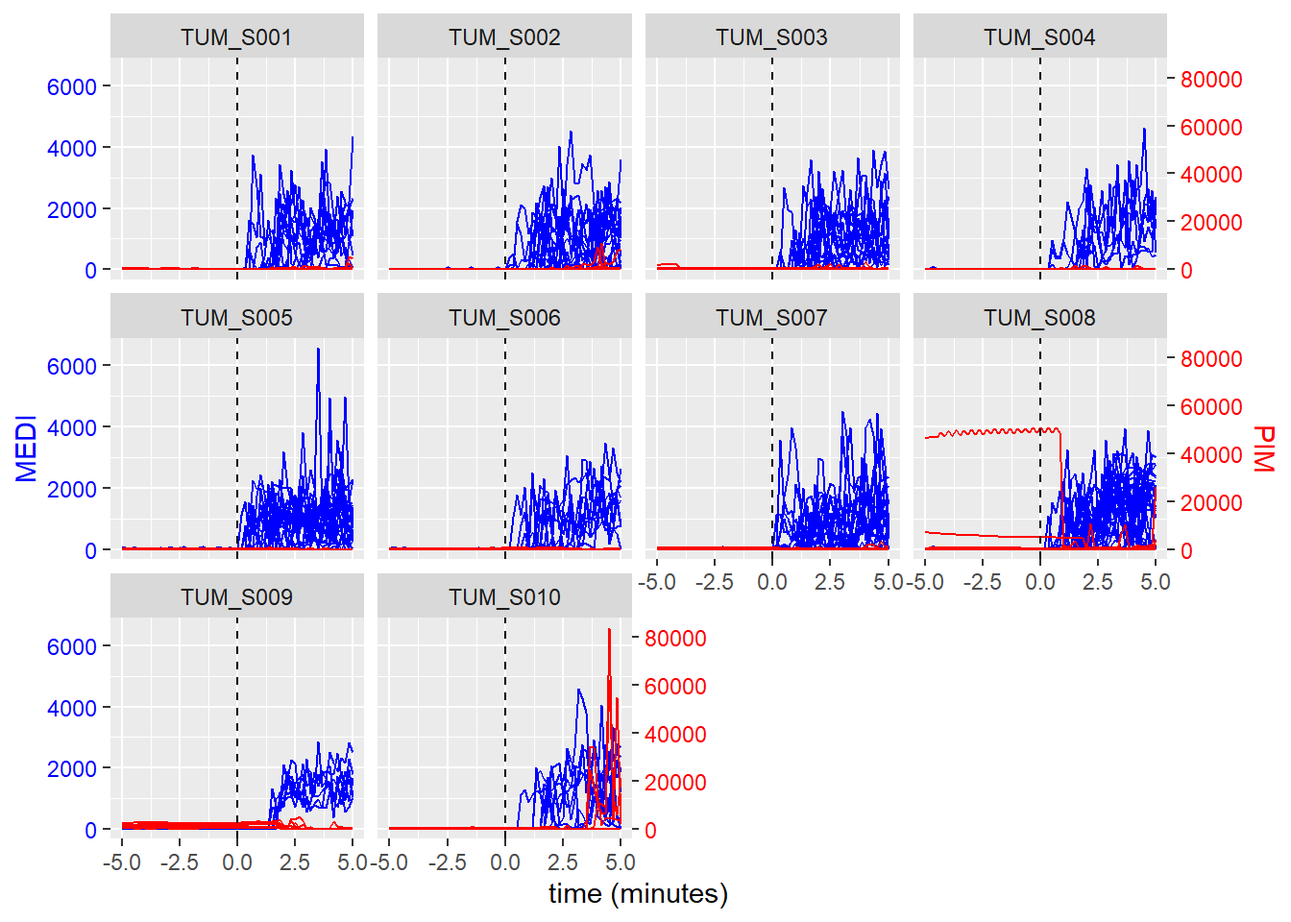
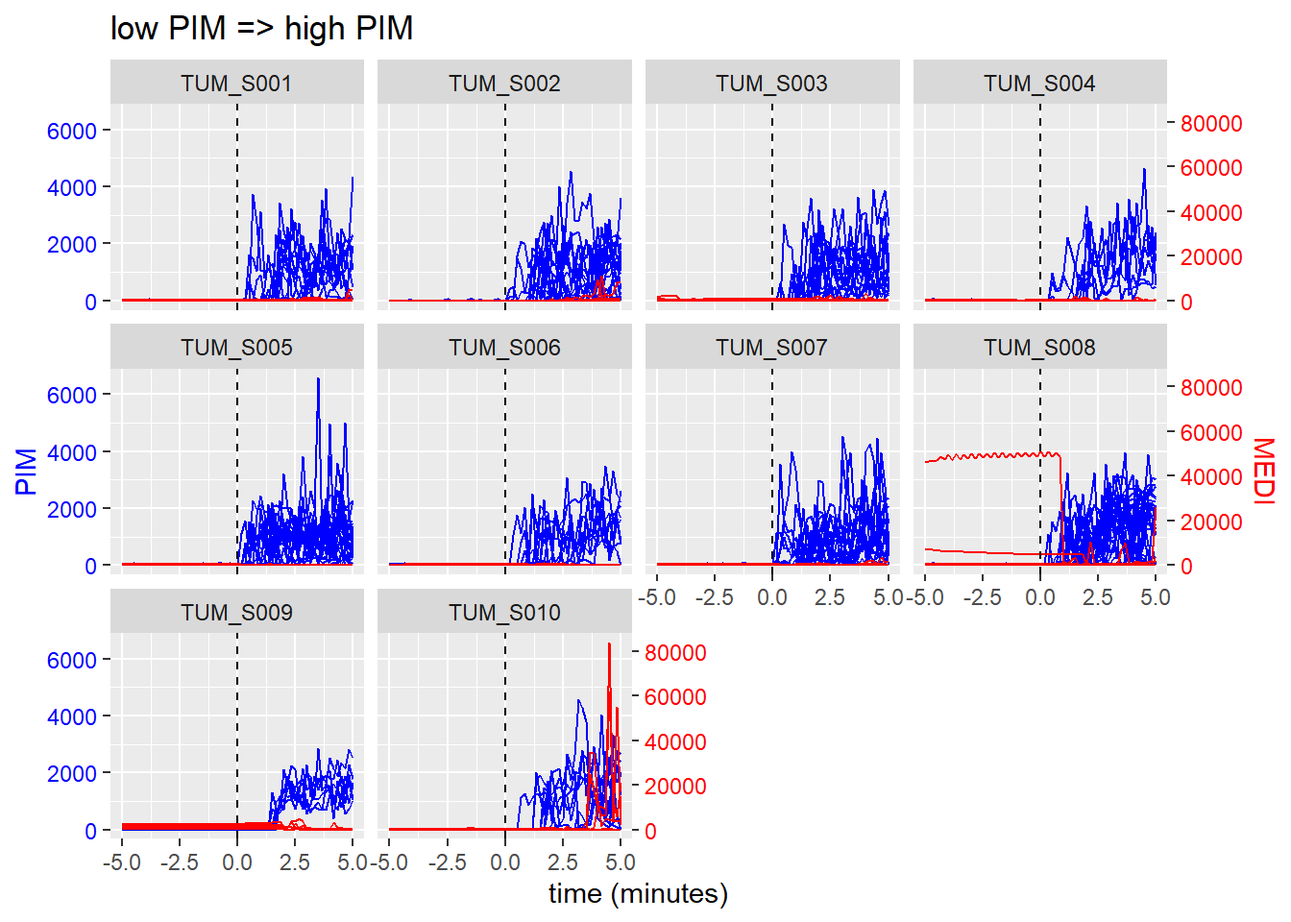
edits to reflections and adding titles to plots

diff --git a/exploration2b.html b/exploration2b.html
@@ -238,7 +238,7 @@ $ PIM      &lt;dbl&gt; 0, 87, 995, 0, 118, 1312, 0, 100, 323, 285, 400, 623, 614
 <span id="cb14-2"><a href="#cb14-2" aria-hidden="true" tabindex="-1"></a><span class="fu">ggplot</span>(D24, <span class="fu">aes</span>(<span class="at">x=</span>hour_in_day)) <span class="sc">+</span></span>
 <span id="cb14-3"><a href="#cb14-3" aria-hidden="true" tabindex="-1"></a>  <span class="fu">geom_line</span>(<span class="fu">aes</span>(<span class="at">y=</span>PIM), <span class="at">col=</span><span class="st">"blue"</span>) <span class="sc">+</span></span>
 <span id="cb14-4"><a href="#cb14-4" aria-hidden="true" tabindex="-1"></a>  <span class="fu">geom_line</span>(<span class="fu">aes</span>(<span class="at">y=</span>MEDI <span class="sc">*</span> scaleFactor), <span class="at">col=</span><span class="st">"red"</span>) <span class="sc">+</span></span>
-<span id="cb14-5"><a href="#cb14-5" aria-hidden="true" tabindex="-1"></a>  <span class="fu">scale_y_continuous</span>(<span class="at">name=</span><span class="st">"MEDI"</span>, <span class="at">sec.axis=</span><span class="fu">sec_axis</span>(<span class="sc">~</span>.<span class="sc">/</span>scaleFactor, <span class="at">name=</span><span class="st">"PIM"</span>)) <span class="sc">+</span></span>
+<span id="cb14-5"><a href="#cb14-5" aria-hidden="true" tabindex="-1"></a>  <span class="fu">scale_y_continuous</span>(<span class="at">name=</span><span class="st">"PIM"</span>, <span class="at">sec.axis=</span><span class="fu">sec_axis</span>(<span class="sc">~</span>.<span class="sc">/</span>scaleFactor, <span class="at">name=</span><span class="st">"MEDI"</span>)) <span class="sc">+</span></span>
 <span id="cb14-6"><a href="#cb14-6" aria-hidden="true" tabindex="-1"></a>  <span class="fu">theme</span>(</span>
 <span id="cb14-7"><a href="#cb14-7" aria-hidden="true" tabindex="-1"></a>    <span class="at">axis.title.y.left=</span><span class="fu">element_text</span>(<span class="at">color=</span><span class="st">"blue"</span>),</span>
 <span id="cb14-8"><a href="#cb14-8" aria-hidden="true" tabindex="-1"></a>    <span class="at">axis.text.y.left=</span><span class="fu">element_text</span>(<span class="at">color=</span><span class="st">"blue"</span>),</span>
@@ -261,7 +261,7 @@ $ PIM      &lt;dbl&gt; 0, 87, 995, 0, 118, 1312, 0, 100, 323, 285, 400, 623, 614
 <span id="cb15-2"><a href="#cb15-2" aria-hidden="true" tabindex="-1"></a><span class="fu">ggplot</span>(D24, <span class="fu">aes</span>(<span class="at">x=</span>hour_in_day)) <span class="sc">+</span></span>
 <span id="cb15-3"><a href="#cb15-3" aria-hidden="true" tabindex="-1"></a>  <span class="fu">geom_smooth</span>(<span class="fu">aes</span>(<span class="at">y=</span>PIM), <span class="at">method=</span><span class="st">"gam"</span>, <span class="at">col=</span><span class="st">"blue"</span>) <span class="sc">+</span></span>
 <span id="cb15-4"><a href="#cb15-4" aria-hidden="true" tabindex="-1"></a>  <span class="fu">geom_smooth</span>(<span class="fu">aes</span>(<span class="at">y=</span>MEDI <span class="sc">*</span> scaleFactor), <span class="at">method=</span><span class="st">"gam"</span>, <span class="at">col=</span><span class="st">"red"</span>) <span class="sc">+</span></span>
-<span id="cb15-5"><a href="#cb15-5" aria-hidden="true" tabindex="-1"></a>  <span class="fu">scale_y_continuous</span>(<span class="at">name=</span><span class="st">"MEDI"</span>, <span class="at">sec.axis=</span><span class="fu">sec_axis</span>(<span class="sc">~</span>.<span class="sc">/</span>scaleFactor, <span class="at">name=</span><span class="st">"PIM"</span>)) <span class="sc">+</span></span>
+<span id="cb15-5"><a href="#cb15-5" aria-hidden="true" tabindex="-1"></a>  <span class="fu">scale_y_continuous</span>(<span class="at">name=</span><span class="st">"PIM"</span>, <span class="at">sec.axis=</span><span class="fu">sec_axis</span>(<span class="sc">~</span>.<span class="sc">/</span>scaleFactor, <span class="at">name=</span><span class="st">"MEDI"</span>)) <span class="sc">+</span></span>
 <span id="cb15-6"><a href="#cb15-6" aria-hidden="true" tabindex="-1"></a>  <span class="fu">theme</span>(</span>
 <span id="cb15-7"><a href="#cb15-7" aria-hidden="true" tabindex="-1"></a>    <span class="at">axis.title.y.left=</span><span class="fu">element_text</span>(<span class="at">color=</span><span class="st">"blue"</span>),</span>
 <span id="cb15-8"><a href="#cb15-8" aria-hidden="true" tabindex="-1"></a>    <span class="at">axis.text.y.left=</span><span class="fu">element_text</span>(<span class="at">color=</span><span class="st">"blue"</span>),</span>
@@ -409,12 +409,12 @@ $ PIM      &lt;dbl&gt; 0, 87, 995, 0, 118, 1312, 0, 100, 323, 285, 400, 623, 614
 <section id="plot" class="level3">
 <h3 class="anchored" data-anchor-id="plot">Plot</h3>
 <div class="cell">
-<div class="code-copy-outer-scaffold"><div class="sourceCode cell-code" id="cb21"><pre class="sourceCode r code-with-copy"><code class="sourceCode r"><span id="cb21-1"><a href="#cb21-1" aria-hidden="true" tabindex="-1"></a>plot_changepoint_ts <span class="ot">=</span> <span class="cf">function</span>(output) {</span>
+<div class="code-copy-outer-scaffold"><div class="sourceCode cell-code" id="cb21"><pre class="sourceCode r code-with-copy"><code class="sourceCode r"><span id="cb21-1"><a href="#cb21-1" aria-hidden="true" tabindex="-1"></a>plot_changepoint_ts <span class="ot">=</span> <span class="cf">function</span>(output, <span class="at">title =</span> <span class="st">""</span>) {</span>
 <span id="cb21-2"><a href="#cb21-2" aria-hidden="true" tabindex="-1"></a>  scaleFactor <span class="ot">&lt;-</span> <span class="fu">max</span>(output<span class="sc">$</span>PIM) <span class="sc">/</span> <span class="fu">max</span>(output<span class="sc">$</span>MEDI)</span>
 <span id="cb21-3"><a href="#cb21-3" aria-hidden="true" tabindex="-1"></a>  <span class="fu">ggplot</span>(output, <span class="fu">aes</span>(<span class="at">x =</span> time, <span class="at">group =</span> changepoint)) <span class="sc">+</span></span>
 <span id="cb21-4"><a href="#cb21-4" aria-hidden="true" tabindex="-1"></a>    <span class="fu">geom_line</span>(<span class="fu">aes</span>(<span class="at">y =</span> PIM), <span class="at">col =</span> <span class="st">"blue"</span>) <span class="sc">+</span></span>
 <span id="cb21-5"><a href="#cb21-5" aria-hidden="true" tabindex="-1"></a>    <span class="fu">geom_line</span>(<span class="fu">aes</span>(<span class="at">y =</span> MEDI <span class="sc">*</span> scaleFactor), <span class="at">col =</span> <span class="st">"red"</span>) <span class="sc">+</span></span>
-<span id="cb21-6"><a href="#cb21-6" aria-hidden="true" tabindex="-1"></a>    <span class="fu">scale_y_continuous</span>(<span class="at">name =</span> <span class="st">"MEDI"</span>, <span class="at">sec.axis =</span> <span class="fu">sec_axis</span>(<span class="sc">~</span>.<span class="sc">/</span>scaleFactor, <span class="at">name =</span> <span class="st">"PIM"</span>)) <span class="sc">+</span></span>
+<span id="cb21-6"><a href="#cb21-6" aria-hidden="true" tabindex="-1"></a>    <span class="fu">scale_y_continuous</span>(<span class="at">name =</span> <span class="st">"PIM"</span>, <span class="at">sec.axis =</span> <span class="fu">sec_axis</span>(<span class="sc">~</span>.<span class="sc">/</span>scaleFactor, <span class="at">name =</span> <span class="st">"MEDI"</span>)) <span class="sc">+</span></span>
 <span id="cb21-7"><a href="#cb21-7" aria-hidden="true" tabindex="-1"></a>    <span class="fu">theme</span>(</span>
 <span id="cb21-8"><a href="#cb21-8" aria-hidden="true" tabindex="-1"></a>      <span class="at">axis.title.y.left =</span> <span class="fu">element_text</span>(<span class="at">color =</span> <span class="st">"blue"</span>),</span>
 <span id="cb21-9"><a href="#cb21-9" aria-hidden="true" tabindex="-1"></a>      <span class="at">axis.text.y.left =</span> <span class="fu">element_text</span>(<span class="at">color =</span> <span class="st">"blue"</span>),</span>
@@ -423,9 +423,10 @@ $ PIM      &lt;dbl&gt; 0, 87, 995, 0, 118, 1312, 0, 100, 323, 285, 400, 623, 614
 <span id="cb21-12"><a href="#cb21-12" aria-hidden="true" tabindex="-1"></a>    ) <span class="sc">+</span></span>
 <span id="cb21-13"><a href="#cb21-13" aria-hidden="true" tabindex="-1"></a>    <span class="fu">geom_vline</span>(<span class="at">xintercept =</span> <span class="dv">0</span>, <span class="at">linetype =</span> <span class="st">"dashed"</span>) <span class="sc">+</span></span>
 <span id="cb21-14"><a href="#cb21-14" aria-hidden="true" tabindex="-1"></a>    <span class="fu">labs</span>(<span class="at">x =</span> <span class="st">"time (minutes)"</span>) <span class="sc">+</span> </span>
-<span id="cb21-15"><a href="#cb21-15" aria-hidden="true" tabindex="-1"></a>    <span class="fu">facet_wrap</span>(<span class="sc">~</span>Id)</span>
-<span id="cb21-16"><a href="#cb21-16" aria-hidden="true" tabindex="-1"></a>}</span>
-<span id="cb21-17"><a href="#cb21-17" aria-hidden="true" tabindex="-1"></a><span class="fu">plot_changepoint_ts</span>(output)</span></code></pre></div><button title="Copy to Clipboard" class="code-copy-button"><i class="bi"></i></button></div>
+<span id="cb21-15"><a href="#cb21-15" aria-hidden="true" tabindex="-1"></a>    <span class="fu">facet_wrap</span>(<span class="sc">~</span>Id) <span class="sc">+</span> <span class="fu">ggtitle</span>(title)</span>
+<span id="cb21-16"><a href="#cb21-16" aria-hidden="true" tabindex="-1"></a>  </span>
+<span id="cb21-17"><a href="#cb21-17" aria-hidden="true" tabindex="-1"></a>}</span>
+<span id="cb21-18"><a href="#cb21-18" aria-hidden="true" tabindex="-1"></a><span class="fu">plot_changepoint_ts</span>(output, <span class="st">"low PIM =&gt; high PIM"</span>)</span></code></pre></div><button title="Copy to Clipboard" class="code-copy-button"><i class="bi"></i></button></div>
 <div class="cell-output-display">
 <div>
 <figure class="figure">
@@ -498,7 +499,7 @@ $ PIM      &lt;dbl&gt; 0, 87, 995, 0, 118, 1312, 0, 100, 323, 285, 400, 623, 614
 <section id="plot-1" class="level3">
 <h3 class="anchored" data-anchor-id="plot-1">Plot</h3>
 <div class="cell">
-<div class="code-copy-outer-scaffold"><div class="sourceCode cell-code" id="cb25"><pre class="sourceCode r code-with-copy"><code class="sourceCode r"><span id="cb25-1"><a href="#cb25-1" aria-hidden="true" tabindex="-1"></a><span class="fu">plot_changepoint_ts</span>(output)</span></code></pre></div><button title="Copy to Clipboard" class="code-copy-button"><i class="bi"></i></button></div>
+<div class="code-copy-outer-scaffold"><div class="sourceCode cell-code" id="cb25"><pre class="sourceCode r code-with-copy"><code class="sourceCode r"><span id="cb25-1"><a href="#cb25-1" aria-hidden="true" tabindex="-1"></a><span class="fu">plot_changepoint_ts</span>(output, <span class="st">"high PIM =&gt; low PIM"</span>)</span></code></pre></div><button title="Copy to Clipboard" class="code-copy-button"><i class="bi"></i></button></div>
 <div class="cell-output-display">
 <div>
 <figure class="figure">
@@ -571,7 +572,7 @@ $ PIM      &lt;dbl&gt; 0, 87, 995, 0, 118, 1312, 0, 100, 323, 285, 400, 623, 614
 <section id="plot-2" class="level3">
 <h3 class="anchored" data-anchor-id="plot-2">Plot</h3>
 <div class="cell">
-<div class="code-copy-outer-scaffold"><div class="sourceCode cell-code" id="cb29"><pre class="sourceCode r code-with-copy"><code class="sourceCode r"><span id="cb29-1"><a href="#cb29-1" aria-hidden="true" tabindex="-1"></a><span class="fu">plot_changepoint_ts</span>(output)</span></code></pre></div><button title="Copy to Clipboard" class="code-copy-button"><i class="bi"></i></button></div>
+<div class="code-copy-outer-scaffold"><div class="sourceCode cell-code" id="cb29"><pre class="sourceCode r code-with-copy"><code class="sourceCode r"><span id="cb29-1"><a href="#cb29-1" aria-hidden="true" tabindex="-1"></a><span class="fu">plot_changepoint_ts</span>(output, <span class="st">"low MEDI =&gt; high MEDI"</span>)</span></code></pre></div><button title="Copy to Clipboard" class="code-copy-button"><i class="bi"></i></button></div>
 <div class="cell-output-display">
 <div>
 <figure class="figure">
@@ -643,7 +644,7 @@ $ PIM      &lt;dbl&gt; 0, 87, 995, 0, 118, 1312, 0, 100, 323, 285, 400, 623, 614
 <section id="plot-3" class="level3">
 <h3 class="anchored" data-anchor-id="plot-3">Plot</h3>
 <div class="cell">
-<div class="code-copy-outer-scaffold"><div class="sourceCode cell-code" id="cb33"><pre class="sourceCode r code-with-copy"><code class="sourceCode r"><span id="cb33-1"><a href="#cb33-1" aria-hidden="true" tabindex="-1"></a><span class="fu">plot_changepoint_ts</span>(output)</span></code></pre></div><button title="Copy to Clipboard" class="code-copy-button"><i class="bi"></i></button></div>
+<div class="code-copy-outer-scaffold"><div class="sourceCode cell-code" id="cb33"><pre class="sourceCode r code-with-copy"><code class="sourceCode r"><span id="cb33-1"><a href="#cb33-1" aria-hidden="true" tabindex="-1"></a><span class="fu">plot_changepoint_ts</span>(output, <span class="st">"high MEDI =&gt; low MEDI"</span>)</span></code></pre></div><button title="Copy to Clipboard" class="code-copy-button"><i class="bi"></i></button></div>
 <div class="cell-output-display">
 <div>
 <figure class="figure">
@@ -658,6 +659,7 @@ $ PIM      &lt;dbl&gt; 0, 87, 995, 0, 118, 1312, 0, 100, 323, 285, 400, 623, 614
 <h2 class="anchored" data-anchor-id="reflections">Reflections</h2>
 <section id="hour-averaged-data" class="level3">
 <h3 class="anchored" data-anchor-id="hour-averaged-data">24 hour averaged data</h3>
+<p>Same as for exploration 2:</p>
 <ul>
 <li>Non-smoothed 24 hour averaged MEDI and PIM shows that light exposure and activity tend to happen during the same hours of the day, but do not reveal clear general patterns.</li>
 <li>Smoothed 24 hour averaged MEDI and PIM shows that they sometimes be correlated and sometimes not, with large variation between individuals.</li>
@@ -665,10 +667,7 @@ $ PIM      &lt;dbl&gt; 0, 87, 995, 0, 118, 1312, 0, 100, 323, 285, 400, 623, 614
 </section>
 <section id="change-points" class="level3">
 <h3 class="anchored" data-anchor-id="change-points">Change points</h3>
-<ul>
-<li>My subjective interpretation is that change in MEDI coincides with change in PIM, but change in PIM does not coincide in change in MEDI. It is tempting to then conclude that light exposure change causes the change in activity, while change in activity does not cause change in light exposure. However, to me it seems that often activity already starts to change before the light starts to change. Therefore, the cause of changes may (also) be external.</li>
-</ul>
-<p>Correction: This should be the other way around, as I misread the colours. Either way, I think there are subtle hints in the data at one directional assocations… maybe causality is too strong word.</p>
+<p>Partially the same as for exploration 2 where we observate that transtions from low -&gt; high or high -&gt; low are associated. However, for some visualisation it looks as if the relation is now reversed: PIM going down being associated with MEDI going up. Better visualisations are needed to gain more insight.</p>
 </section>
 </section>
 

diff --git a/exploration2.html b/exploration2.html
@@ -115,7 +115,7 @@ pre > code.sourceCode > span > a:first-child::before { text-decoration: underlin
 <pre><code>── Attaching core tidyverse packages ──────────────────────── tidyverse 2.0.0 ──
 ✔ dplyr     1.2.1     ✔ readr     2.2.0
 ✔ forcats   1.0.1     ✔ stringr   1.6.0
-✔ ggplot2   4.0.2     ✔ tibble    3.3.1
+✔ ggplot2   4.0.3     ✔ tibble    3.3.1
 ✔ lubridate 1.9.5     ✔ tidyr     1.3.2
 ✔ purrr     1.2.2     
 ── Conflicts ────────────────────────────────────────── tidyverse_conflicts() ──
@@ -224,7 +224,7 @@ $ PIM      &lt;dbl&gt; 14, 0, 0, 0, 3, 192, 0, 6, 4, 4, 0, 4, 0, 0, 0, 0, 0, 107
 <span id="cb14-2"><a href="#cb14-2" aria-hidden="true" tabindex="-1"></a><span class="fu">ggplot</span>(D24, <span class="fu">aes</span>(<span class="at">x=</span>hour_in_day)) <span class="sc">+</span></span>
 <span id="cb14-3"><a href="#cb14-3" aria-hidden="true" tabindex="-1"></a>  <span class="fu">geom_line</span>(<span class="fu">aes</span>(<span class="at">y=</span>PIM), <span class="at">col=</span><span class="st">"blue"</span>) <span class="sc">+</span></span>
 <span id="cb14-4"><a href="#cb14-4" aria-hidden="true" tabindex="-1"></a>  <span class="fu">geom_line</span>(<span class="fu">aes</span>(<span class="at">y=</span>MEDI <span class="sc">*</span> scaleFactor), <span class="at">col=</span><span class="st">"red"</span>) <span class="sc">+</span></span>
-<span id="cb14-5"><a href="#cb14-5" aria-hidden="true" tabindex="-1"></a>  <span class="fu">scale_y_continuous</span>(<span class="at">name=</span><span class="st">"MEDI"</span>, <span class="at">sec.axis=</span><span class="fu">sec_axis</span>(<span class="sc">~</span>.<span class="sc">/</span>scaleFactor, <span class="at">name=</span><span class="st">"PIM"</span>)) <span class="sc">+</span></span>
+<span id="cb14-5"><a href="#cb14-5" aria-hidden="true" tabindex="-1"></a>  <span class="fu">scale_y_continuous</span>(<span class="at">name=</span><span class="st">"PIM"</span>, <span class="at">sec.axis=</span><span class="fu">sec_axis</span>(<span class="sc">~</span>.<span class="sc">/</span>scaleFactor, <span class="at">name=</span><span class="st">"MEDI"</span>)) <span class="sc">+</span></span>
 <span id="cb14-6"><a href="#cb14-6" aria-hidden="true" tabindex="-1"></a>  <span class="fu">theme</span>(</span>
 <span id="cb14-7"><a href="#cb14-7" aria-hidden="true" tabindex="-1"></a>    <span class="at">axis.title.y.left=</span><span class="fu">element_text</span>(<span class="at">color=</span><span class="st">"blue"</span>),</span>
 <span id="cb14-8"><a href="#cb14-8" aria-hidden="true" tabindex="-1"></a>    <span class="at">axis.text.y.left=</span><span class="fu">element_text</span>(<span class="at">color=</span><span class="st">"blue"</span>),</span>
@@ -247,7 +247,7 @@ $ PIM      &lt;dbl&gt; 14, 0, 0, 0, 3, 192, 0, 6, 4, 4, 0, 4, 0, 0, 0, 0, 0, 107
 <span id="cb15-2"><a href="#cb15-2" aria-hidden="true" tabindex="-1"></a><span class="fu">ggplot</span>(D24, <span class="fu">aes</span>(<span class="at">x=</span>hour_in_day)) <span class="sc">+</span></span>
 <span id="cb15-3"><a href="#cb15-3" aria-hidden="true" tabindex="-1"></a>  <span class="fu">geom_smooth</span>(<span class="fu">aes</span>(<span class="at">y=</span>PIM), <span class="at">method=</span><span class="st">"gam"</span>, <span class="at">col=</span><span class="st">"blue"</span>) <span class="sc">+</span></span>
 <span id="cb15-4"><a href="#cb15-4" aria-hidden="true" tabindex="-1"></a>  <span class="fu">geom_smooth</span>(<span class="fu">aes</span>(<span class="at">y=</span>MEDI <span class="sc">*</span> scaleFactor), <span class="at">method=</span><span class="st">"gam"</span>, <span class="at">col=</span><span class="st">"red"</span>) <span class="sc">+</span></span>
-<span id="cb15-5"><a href="#cb15-5" aria-hidden="true" tabindex="-1"></a>  <span class="fu">scale_y_continuous</span>(<span class="at">name=</span><span class="st">"MEDI"</span>, <span class="at">sec.axis=</span><span class="fu">sec_axis</span>(<span class="sc">~</span>.<span class="sc">/</span>scaleFactor, <span class="at">name=</span><span class="st">"PIM"</span>)) <span class="sc">+</span></span>
+<span id="cb15-5"><a href="#cb15-5" aria-hidden="true" tabindex="-1"></a>  <span class="fu">scale_y_continuous</span>(<span class="at">name=</span><span class="st">"PIM"</span>, <span class="at">sec.axis=</span><span class="fu">sec_axis</span>(<span class="sc">~</span>.<span class="sc">/</span>scaleFactor, <span class="at">name=</span><span class="st">"MEDI"</span>)) <span class="sc">+</span></span>
 <span id="cb15-6"><a href="#cb15-6" aria-hidden="true" tabindex="-1"></a>  <span class="fu">theme</span>(</span>
 <span id="cb15-7"><a href="#cb15-7" aria-hidden="true" tabindex="-1"></a>    <span class="at">axis.title.y.left=</span><span class="fu">element_text</span>(<span class="at">color=</span><span class="st">"blue"</span>),</span>
 <span id="cb15-8"><a href="#cb15-8" aria-hidden="true" tabindex="-1"></a>    <span class="at">axis.text.y.left=</span><span class="fu">element_text</span>(<span class="at">color=</span><span class="st">"blue"</span>),</span>
@@ -395,12 +395,12 @@ $ PIM      &lt;dbl&gt; 14, 0, 0, 0, 3, 192, 0, 6, 4, 4, 0, 4, 0, 0, 0, 0, 0, 107
 <section id="plot" class="level3">
 <h3 class="anchored" data-anchor-id="plot">Plot</h3>
 <div class="cell">
-<div class="code-copy-outer-scaffold"><div class="sourceCode cell-code" id="cb21"><pre class="sourceCode r code-with-copy"><code class="sourceCode r"><span id="cb21-1"><a href="#cb21-1" aria-hidden="true" tabindex="-1"></a>plot_changepoint_ts <span class="ot">=</span> <span class="cf">function</span>(output) {</span>
+<div class="code-copy-outer-scaffold"><div class="sourceCode cell-code" id="cb21"><pre class="sourceCode r code-with-copy"><code class="sourceCode r"><span id="cb21-1"><a href="#cb21-1" aria-hidden="true" tabindex="-1"></a>plot_changepoint_ts <span class="ot">=</span> <span class="cf">function</span>(output, <span class="at">title =</span> <span class="st">""</span>) {</span>
 <span id="cb21-2"><a href="#cb21-2" aria-hidden="true" tabindex="-1"></a>  scaleFactor <span class="ot">&lt;-</span> <span class="fu">max</span>(output<span class="sc">$</span>PIM) <span class="sc">/</span> <span class="fu">max</span>(output<span class="sc">$</span>MEDI)</span>
 <span id="cb21-3"><a href="#cb21-3" aria-hidden="true" tabindex="-1"></a>  <span class="fu">ggplot</span>(output, <span class="fu">aes</span>(<span class="at">x =</span> time, <span class="at">group =</span> changepoint)) <span class="sc">+</span></span>
 <span id="cb21-4"><a href="#cb21-4" aria-hidden="true" tabindex="-1"></a>    <span class="fu">geom_line</span>(<span class="fu">aes</span>(<span class="at">y =</span> PIM), <span class="at">col =</span> <span class="st">"blue"</span>) <span class="sc">+</span></span>
 <span id="cb21-5"><a href="#cb21-5" aria-hidden="true" tabindex="-1"></a>    <span class="fu">geom_line</span>(<span class="fu">aes</span>(<span class="at">y =</span> MEDI <span class="sc">*</span> scaleFactor), <span class="at">col =</span> <span class="st">"red"</span>) <span class="sc">+</span></span>
-<span id="cb21-6"><a href="#cb21-6" aria-hidden="true" tabindex="-1"></a>    <span class="fu">scale_y_continuous</span>(<span class="at">name =</span> <span class="st">"MEDI"</span>, <span class="at">sec.axis =</span> <span class="fu">sec_axis</span>(<span class="sc">~</span>.<span class="sc">/</span>scaleFactor, <span class="at">name =</span> <span class="st">"PIM"</span>)) <span class="sc">+</span></span>
+<span id="cb21-6"><a href="#cb21-6" aria-hidden="true" tabindex="-1"></a>    <span class="fu">scale_y_continuous</span>(<span class="at">name =</span> <span class="st">"PIM"</span>, <span class="at">sec.axis =</span> <span class="fu">sec_axis</span>(<span class="sc">~</span>.<span class="sc">/</span>scaleFactor, <span class="at">name =</span> <span class="st">"MEDI"</span>)) <span class="sc">+</span></span>
 <span id="cb21-7"><a href="#cb21-7" aria-hidden="true" tabindex="-1"></a>    <span class="fu">theme</span>(</span>
 <span id="cb21-8"><a href="#cb21-8" aria-hidden="true" tabindex="-1"></a>      <span class="at">axis.title.y.left =</span> <span class="fu">element_text</span>(<span class="at">color =</span> <span class="st">"blue"</span>),</span>
 <span id="cb21-9"><a href="#cb21-9" aria-hidden="true" tabindex="-1"></a>      <span class="at">axis.text.y.left =</span> <span class="fu">element_text</span>(<span class="at">color =</span> <span class="st">"blue"</span>),</span>
@@ -409,9 +409,9 @@ $ PIM      &lt;dbl&gt; 14, 0, 0, 0, 3, 192, 0, 6, 4, 4, 0, 4, 0, 0, 0, 0, 0, 107
 <span id="cb21-12"><a href="#cb21-12" aria-hidden="true" tabindex="-1"></a>    ) <span class="sc">+</span></span>
 <span id="cb21-13"><a href="#cb21-13" aria-hidden="true" tabindex="-1"></a>    <span class="fu">geom_vline</span>(<span class="at">xintercept =</span> <span class="dv">0</span>, <span class="at">linetype =</span> <span class="st">"dashed"</span>) <span class="sc">+</span></span>
 <span id="cb21-14"><a href="#cb21-14" aria-hidden="true" tabindex="-1"></a>    <span class="fu">labs</span>(<span class="at">x =</span> <span class="st">"time (minutes)"</span>) <span class="sc">+</span> </span>
-<span id="cb21-15"><a href="#cb21-15" aria-hidden="true" tabindex="-1"></a>    <span class="fu">facet_wrap</span>(<span class="sc">~</span>Id)</span>
+<span id="cb21-15"><a href="#cb21-15" aria-hidden="true" tabindex="-1"></a>    <span class="fu">facet_wrap</span>(<span class="sc">~</span>Id) <span class="sc">+</span> <span class="fu">ggtitle</span>(title)</span>
 <span id="cb21-16"><a href="#cb21-16" aria-hidden="true" tabindex="-1"></a>}</span>
-<span id="cb21-17"><a href="#cb21-17" aria-hidden="true" tabindex="-1"></a><span class="fu">plot_changepoint_ts</span>(output)</span></code></pre></div><button title="Copy to Clipboard" class="code-copy-button"><i class="bi"></i></button></div>
+<span id="cb21-17"><a href="#cb21-17" aria-hidden="true" tabindex="-1"></a><span class="fu">plot_changepoint_ts</span>(output, <span class="st">"low PIM =&gt; high PIM"</span>)</span></code></pre></div><button title="Copy to Clipboard" class="code-copy-button"><i class="bi"></i></button></div>
 <div class="cell-output-display">
 <div>
 <figure class="figure">
@@ -484,7 +484,7 @@ $ PIM      &lt;dbl&gt; 14, 0, 0, 0, 3, 192, 0, 6, 4, 4, 0, 4, 0, 0, 0, 0, 0, 107
 <section id="plot-1" class="level3">
 <h3 class="anchored" data-anchor-id="plot-1">Plot</h3>
 <div class="cell">
-<div class="code-copy-outer-scaffold"><div class="sourceCode cell-code" id="cb25"><pre class="sourceCode r code-with-copy"><code class="sourceCode r"><span id="cb25-1"><a href="#cb25-1" aria-hidden="true" tabindex="-1"></a><span class="fu">plot_changepoint_ts</span>(output)</span></code></pre></div><button title="Copy to Clipboard" class="code-copy-button"><i class="bi"></i></button></div>
+<div class="code-copy-outer-scaffold"><div class="sourceCode cell-code" id="cb25"><pre class="sourceCode r code-with-copy"><code class="sourceCode r"><span id="cb25-1"><a href="#cb25-1" aria-hidden="true" tabindex="-1"></a><span class="fu">plot_changepoint_ts</span>(output, <span class="st">"high PIM =&gt; low PIM"</span>)</span></code></pre></div><button title="Copy to Clipboard" class="code-copy-button"><i class="bi"></i></button></div>
 <div class="cell-output-display">
 <div>
 <figure class="figure">
@@ -557,7 +557,7 @@ $ PIM      &lt;dbl&gt; 14, 0, 0, 0, 3, 192, 0, 6, 4, 4, 0, 4, 0, 0, 0, 0, 0, 107
 <section id="plot-2" class="level3">
 <h3 class="anchored" data-anchor-id="plot-2">Plot</h3>
 <div class="cell">
-<div class="code-copy-outer-scaffold"><div class="sourceCode cell-code" id="cb29"><pre class="sourceCode r code-with-copy"><code class="sourceCode r"><span id="cb29-1"><a href="#cb29-1" aria-hidden="true" tabindex="-1"></a><span class="fu">plot_changepoint_ts</span>(output)</span></code></pre></div><button title="Copy to Clipboard" class="code-copy-button"><i class="bi"></i></button></div>
+<div class="code-copy-outer-scaffold"><div class="sourceCode cell-code" id="cb29"><pre class="sourceCode r code-with-copy"><code class="sourceCode r"><span id="cb29-1"><a href="#cb29-1" aria-hidden="true" tabindex="-1"></a><span class="fu">plot_changepoint_ts</span>(output, <span class="st">"low MEDI =&gt; high MEDI"</span>)</span></code></pre></div><button title="Copy to Clipboard" class="code-copy-button"><i class="bi"></i></button></div>
 <div class="cell-output-display">
 <div>
 <figure class="figure">
@@ -629,7 +629,7 @@ $ PIM      &lt;dbl&gt; 14, 0, 0, 0, 3, 192, 0, 6, 4, 4, 0, 4, 0, 0, 0, 0, 0, 107
 <section id="plot-3" class="level3">
 <h3 class="anchored" data-anchor-id="plot-3">Plot</h3>
 <div class="cell">
-<div class="code-copy-outer-scaffold"><div class="sourceCode cell-code" id="cb33"><pre class="sourceCode r code-with-copy"><code class="sourceCode r"><span id="cb33-1"><a href="#cb33-1" aria-hidden="true" tabindex="-1"></a><span class="fu">plot_changepoint_ts</span>(output)</span></code></pre></div><button title="Copy to Clipboard" class="code-copy-button"><i class="bi"></i></button></div>
+<div class="code-copy-outer-scaffold"><div class="sourceCode cell-code" id="cb33"><pre class="sourceCode r code-with-copy"><code class="sourceCode r"><span id="cb33-1"><a href="#cb33-1" aria-hidden="true" tabindex="-1"></a><span class="fu">plot_changepoint_ts</span>(output, <span class="st">"high MEDI =&gt; low MEDI"</span>)</span></code></pre></div><button title="Copy to Clipboard" class="code-copy-button"><i class="bi"></i></button></div>
 <div class="cell-output-display">
 <div>
 <figure class="figure">
@@ -654,7 +654,6 @@ $ PIM      &lt;dbl&gt; 14, 0, 0, 0, 3, 192, 0, 6, 4, 4, 0, 4, 0, 0, 0, 0, 0, 107
 <ul>
 <li>My subjective interpretation is that change in MEDI coincides with change in PIM, but change in PIM does not coincide in change in MEDI. It is tempting to then conclude that light exposure change causes the change in activity, while change in activity does not cause change in light exposure. However, to me it seems that often activity already starts to change before the light starts to change. Therefore, the cause of changes may (also) be external.</li>
 </ul>
-<p>Correction: This should be the other way around, as I misread the colours. Either way, I think there are subtle hints in the data at one directional assocations… maybe causality is too strong word.</p>
 </section>
 </section>
 
